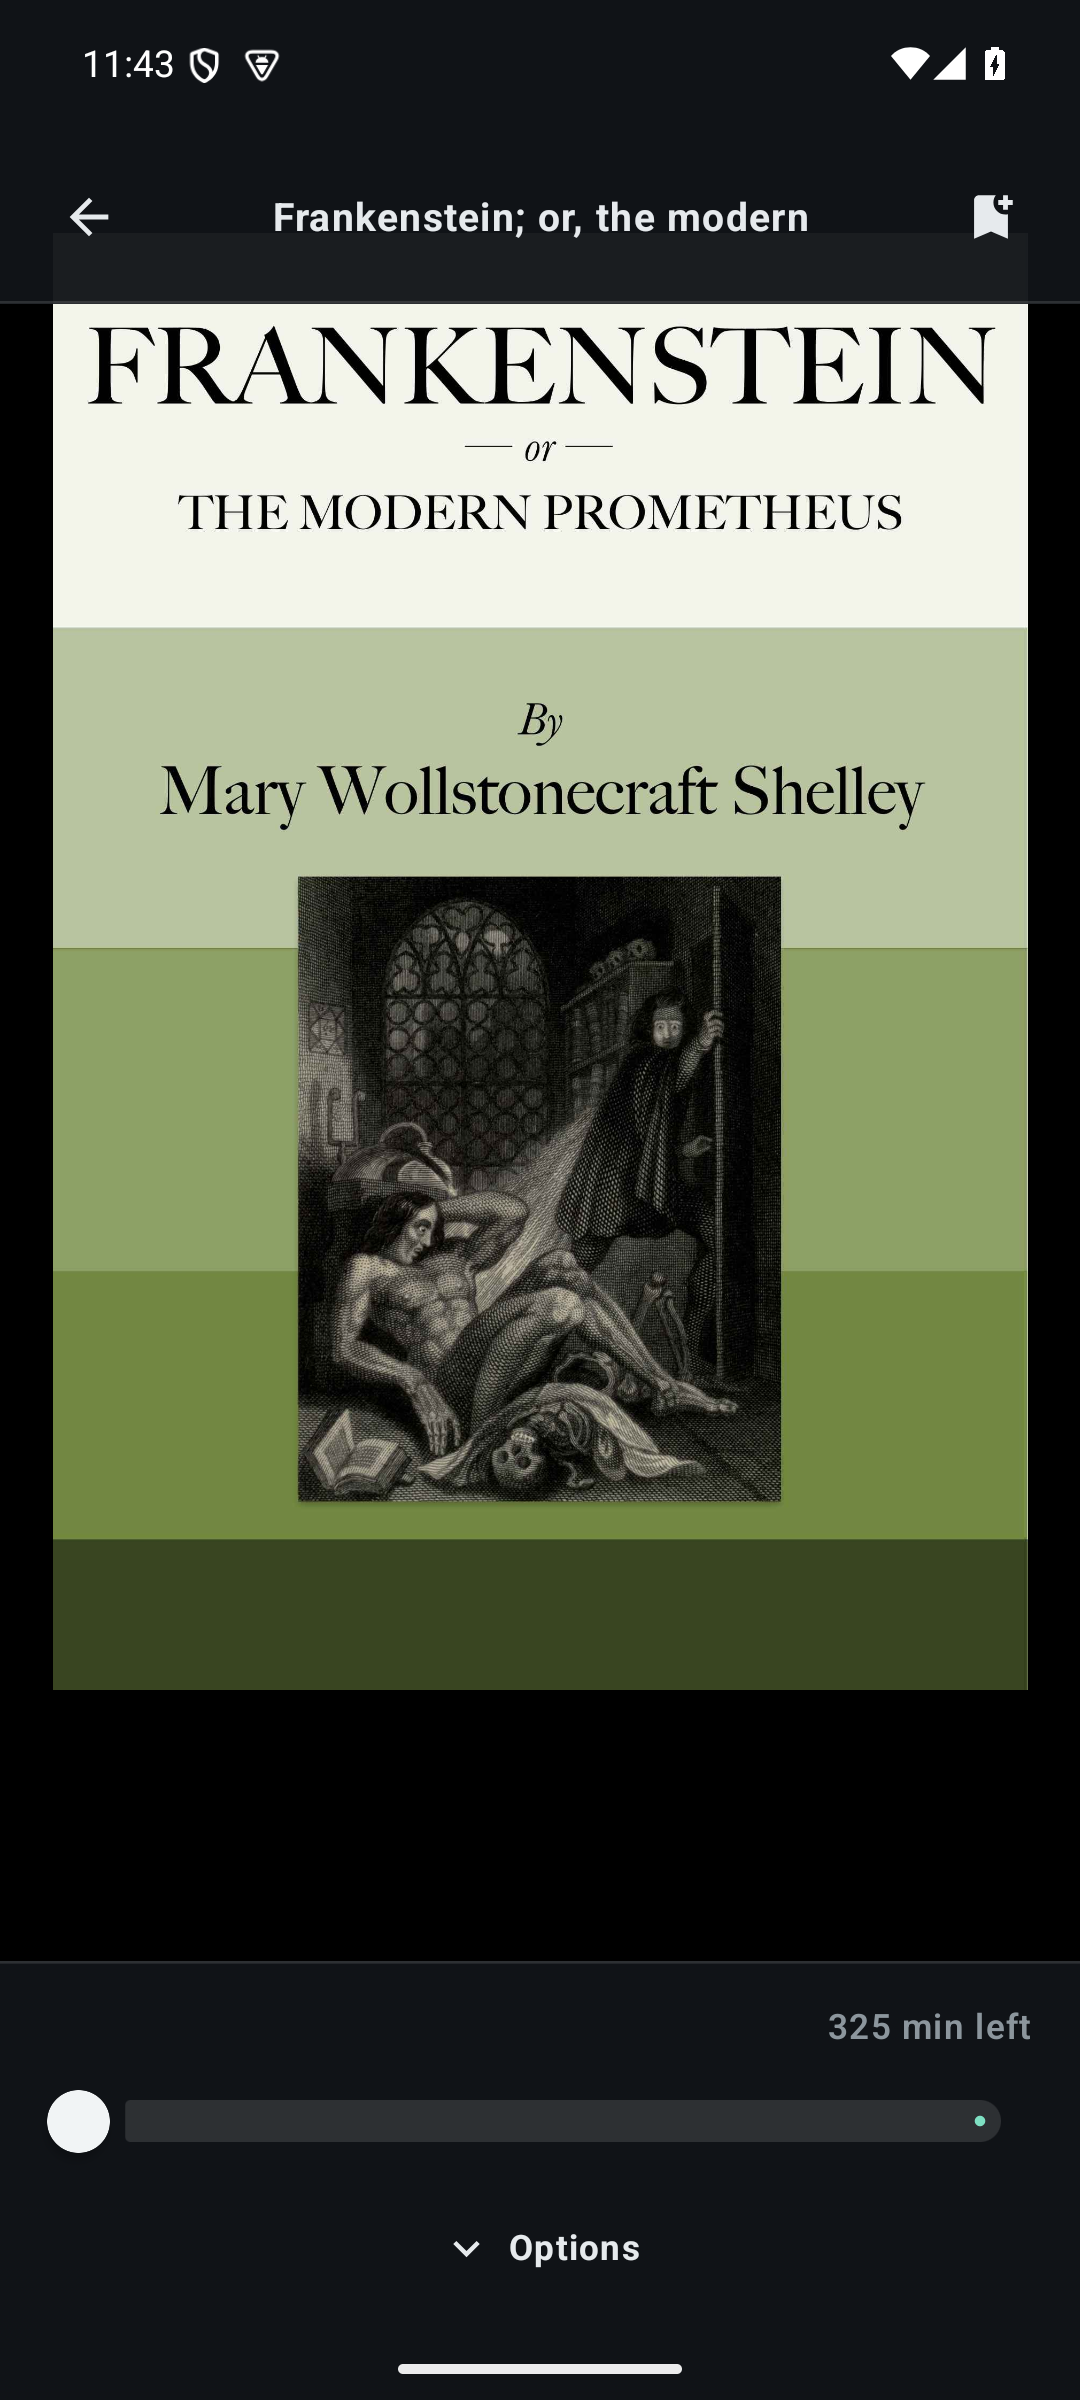
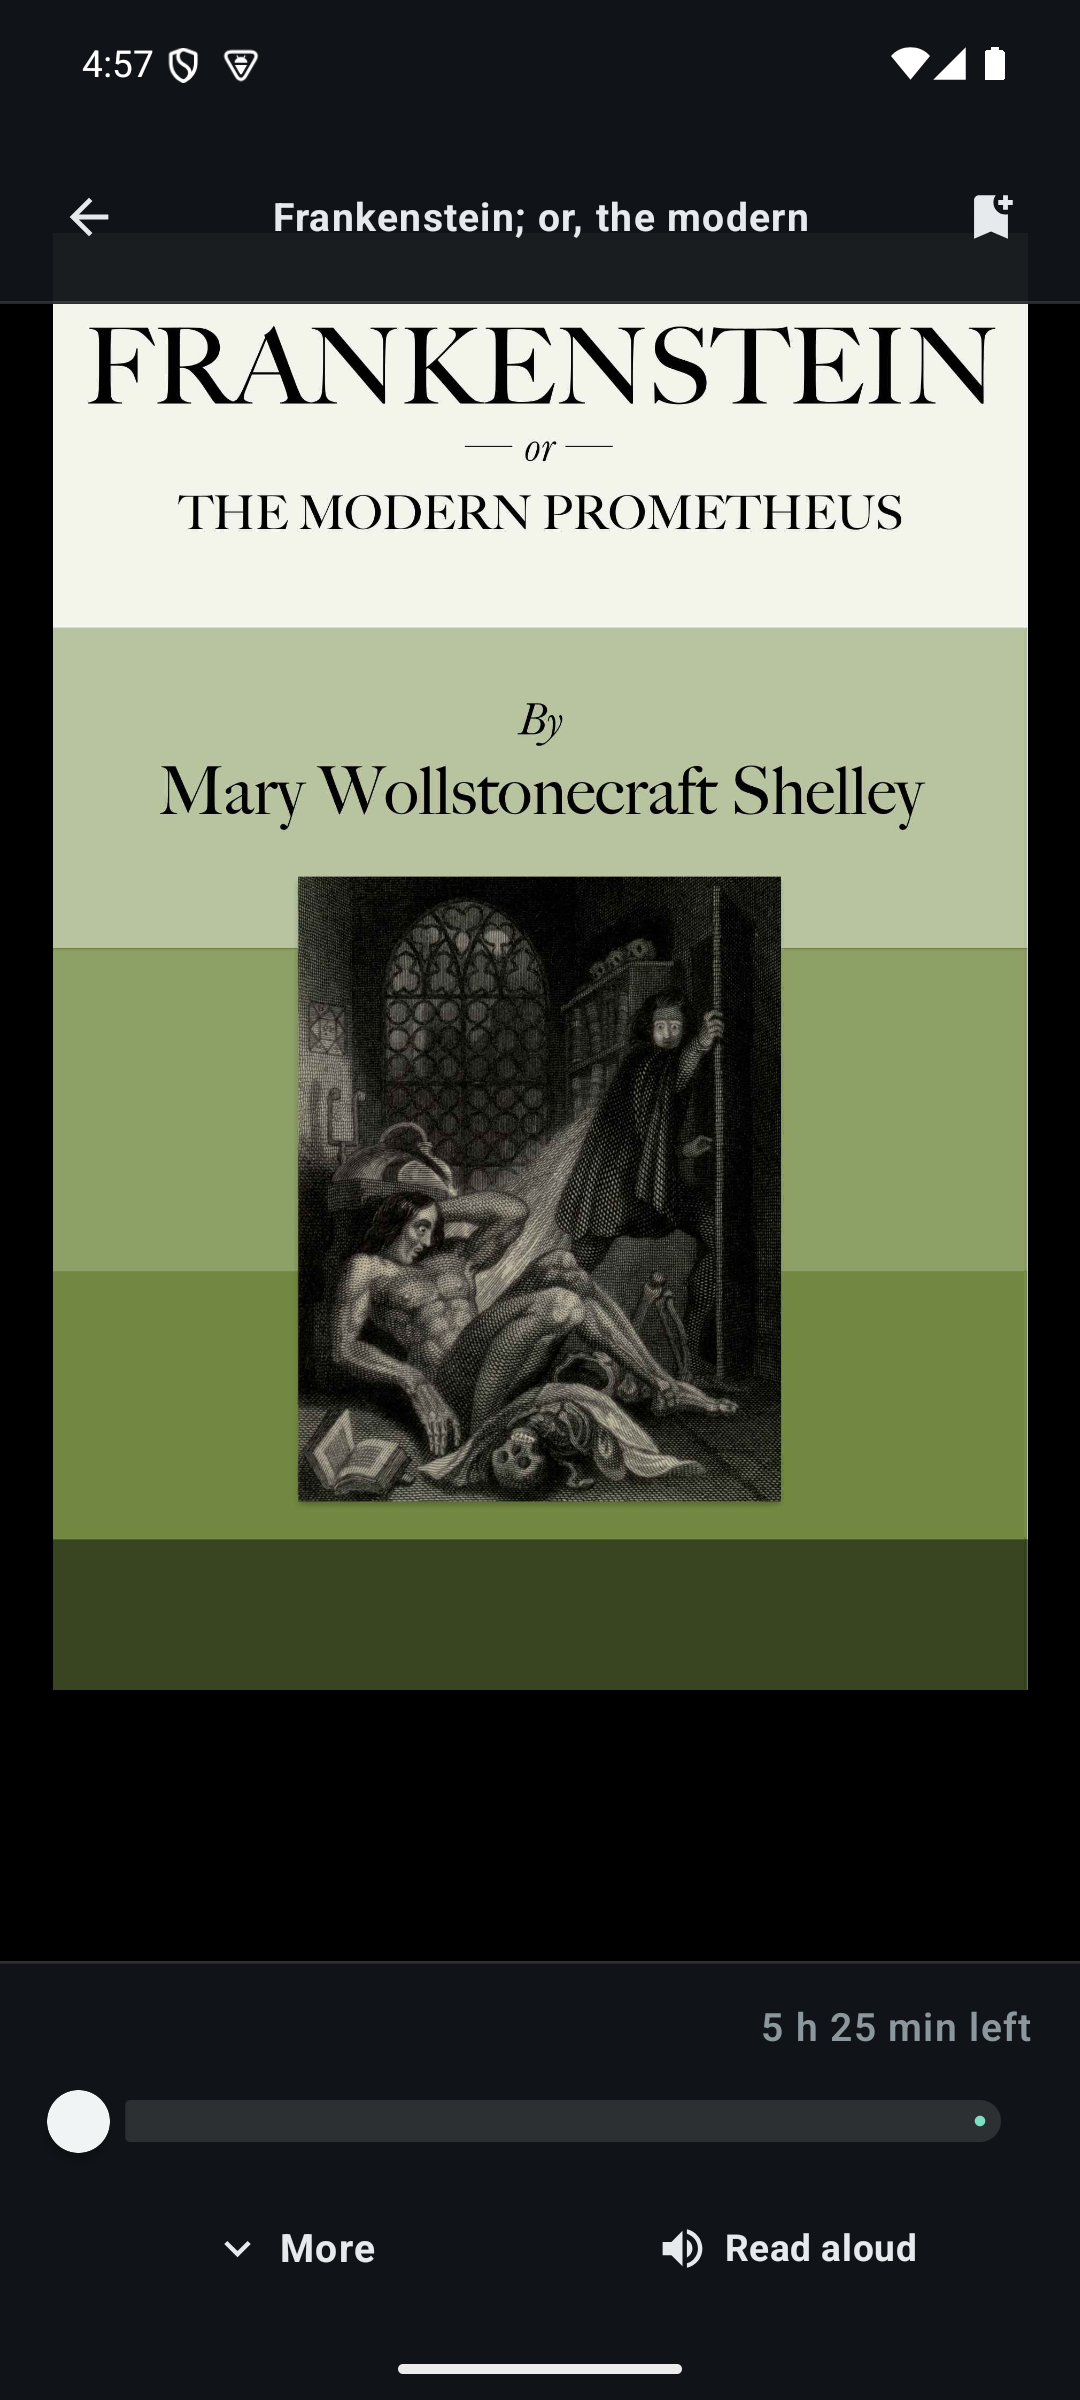
README curated for 0.7.5; current reader screenshot

diff --git a/README.md b/README.md
@@ -8,64 +8,71 @@ folder, or let it find the EPUBs already on your device.
 ![Library](https://raw.githubusercontent.com/pham-noah/kairn-reader/main/fastlane/metadata/android/en-US/images/phoneScreenshots/01-library.png)
 ![Reading](https://raw.githubusercontent.com/pham-noah/kairn-reader/main/fastlane/metadata/android/en-US/images/phoneScreenshots/02-reader.png)
 
-## What sets it apart
+## Why it is built this way
 
-- **Nothing phones home.** The only network code is the LAN transfer server, and it only listens. No
-  analytics, no crash reporting, no update check, no outgoing connection.
+- **Nothing phones home.** The only network code is the LAN transfer server, and it only listens - no
+  analytics, no crash reporting, no update check, no outgoing request.
 - **Your data is files, not a database.** Positions, highlights, notes and settings are plain JSON in the
-  app's folder, one file per book. Any text editor opens them.
-- **A moved book keeps its history.** Books are identified by their contents, so renaming or moving a file
+  app's folder, one file per book.
+- **A moved book keeps its history.** Books are identified by their content, so renaming or moving a file
   keeps every highlight and your place in it.
-- **A restore cannot leave you worse off.** One zip; the archive is validated before anything is touched, a
-  safety copy is taken, and the app says plainly what happened.
+- **A restore cannot leave you worse off.** One zip, validated before anything is touched, with a safety
+  copy taken first and a plain statement of what happened.
 
-## Features
+## Reading
 
-**Reading** — page or scroll, with auto scroll at a speed you set per book. Typeface (the publication's own,
-or the system's serif, sans or mono), text size, line and paragraph spacing, margins, justification,
-hyphenation — all per book, and one action puts a book back on the app defaults. Five page tones from light
-to true black, plus any custom page and ink pair. Warm light; brightness for this app alone or from the
-system; full screen. A whole-book progress slider and an honest time left, worked out from the book's real
-word count at your reading speed. Two-page columns on a tablet; contents; footnote pop-ups with a "back to
-where you were" chip. Read aloud speaks the chapter you are in, from the place you are at, and carries on
-into the next one: pause and resume from the toolbar, speed in the sheet behind the `1.0×` chip. The
-sentence being spoken is marked, and in page mode the page turns to keep up with it. Auto
-scroll pauses while your finger is on the page and picks up again when you lift it.
+- Page or scroll, with auto scroll at a speed you set per book. Auto scroll holds still while your finger is
+  on the page and picks up when you lift it.
+- Read aloud from where you are, and it carries on into the next chapter. Pause and resume land on the word
+  you left; speed runs 0.6x to 2.0x per book. It marks the sentence it is speaking, and in page mode the
+  page turns to keep up with it.
+- Typeface, text size, line and paragraph spacing, margins, justification and hyphenation - per book, with
+  one action to put a book back on your defaults.
+- Five page tones from light to true black, plus any custom page and ink pair. Warm light; brightness for
+  this app alone or from the system; full screen.
+- A whole-book progress slider, and a time left worked out from the book's real word count at your reading
+  speed. Two-page columns on a tablet; contents; footnote pop-ups with a "back to where you were" chip.
 
-**Library** — grid or list; search over titles and over the text inside every book; sort, reading status,
-collections and tags you can rename or delete; add several books to one collection at once; watched folders;
-a scan for the EPUBs already on your device; generated covers for books without one; "Open with" from any
-file manager.
+## Library
 
-**Sending books** — a page you open from a computer on the same Wi-Fi. Drop EPUBs on it and they land in the
-library. The address carries a four-digit code.
+Grid or list; search over titles and over the text inside every book; sort, reading status, collections and
+tags you can rename or delete; add several books to one collection at once; watched folders; a scan for the
+EPUBs already on your device; generated covers for books without one; "Open with" from any file manager.
 
-**Notes and highlights** — six highlight colours, notes typed on a selection and edited later, one bookmark
-per chapter, a per-book list to jump from, an undo on every delete, Markdown export.
+## Notes, highlights, backup
 
-**Backup** — one zip, optionally with the book files inside; merge or replace on restore.
+Six highlight colours, notes typed on a selection and edited later, one bookmark per chapter, a per-book
+list to jump from, an undo on every delete, Markdown export. Backup is one zip, optionally with the book
+files inside; restore merges or replaces.
 
-Every user-facing string is a resource (counts are plurals), so a translation is a `values-xx/strings.xml`
-away. Data is never localized: book titles, the Wi-Fi upload page and the annotation kinds stay as they are.
+## Sending books
+
+Open the transfer page, then drop EPUBs on it from a browser on the same Wi-Fi. The address carries a
+four-digit code, and nothing else on the network can reach it.
 
 ## Privacy
 
-Nothing touches the network unless you start the Wi-Fi transfer. Even then Kairn only listens: your
-computer's browser makes the request, the server lives only while that screen is open, and it needs the code
-shown on screen. No analytics, no crash reporting, no ads, no account, no update check.
+Nothing touches the network unless you start the Wi-Fi transfer. Even then Kairn only listens: the computer
+makes the request, the server lives only while that screen is open, and it will not answer without the code
+shown on screen.
 
 `INTERNET` is requested because a socket needs it even to listen. `MANAGE_EXTERNAL_STORAGE` is optional: it
 lets the scan see EPUBs already on the device, and the folder picker covers everything else.
 
 ## Install
 
-**Not in the main F-Droid repository yet.** The submission was closed on project age — reviewers want about
-three months of active development, and the app was days old when it was filed. The same merge request can be
-reopened once that history exists. A self-hosted F-Droid repository is the plan for the gap.
+**The signed APK is on the [releases page](https://github.com/pham-noah/kairn-reader/releases).** It is
+signed with a debug key on purpose, so it installs over an earlier Kairn and keeps your library. A
+store-signed build cannot install over it - take a backup in the app before switching.
 
-**Today**, build it from source; the recipe is below. Android 8.0 or newer.
+**F-Droid:** not in the main repository yet. The submission
+([!52993](https://gitlab.com/fdroid/fdroiddata/-/merge_requests/52993)) was closed on project age; reviewers
+want about three months of work behind an app, and Kairn was days old when it was filed. The same merge
+request can be reopened once that history exists.
 
-## Building
+Android 8.0 or newer.
+
+## Build and test
 
 JDK 17+ and the Android SDK; `local.properties` needs `sdk.dir`. The Gradle wrapper is included.
 
@@ -75,19 +82,16 @@ JDK 17+ and the Android SDK; `local.properties` needs `sdk.dir`. The Gradle wrap
     ./gradlew :app:lintDebug
     ./gradlew :app:assembleRelease            # unsigned; a store signs its own
 
-[SPEC_STATUS.md](SPEC_STATUS.md) holds the engineering detail: Readium 3.0.0 API traps, the performance work,
-and which spec item maps to what.
+Every user-facing string is a resource and every count is a plural, so a translation is a
+`values-xx/strings.xml` away. [SPEC_STATUS.md](SPEC_STATUS.md) holds the engineering detail: Readium 3.0.0
+API traps, the performance work, and which spec item maps to what.
 
-## Roadmap
+## What is next
 
-Dictionary and share from the selection menu · image zoom · right-to-left and vertical text · text and Word
-files imported alongside EPUBs.
+Dictionary and share from the selection menu · right-to-left and vertical text · text and Word files
+imported alongside EPUBs.
 
-## Credits
+## Credits and licence
 
 [Readium Kotlin Toolkit](https://github.com/readium/kotlin-toolkit) (BSD-3-Clause) and AndroidX (Apache-2.0).
-No proprietary dependencies, no Play Services.
-
-## Licence
-
-Apache-2.0 — see `LICENSE` and `NOTICE`.
+No proprietary dependencies, no Play Services. Apache-2.0 - see `LICENSE` and `NOTICE`.
